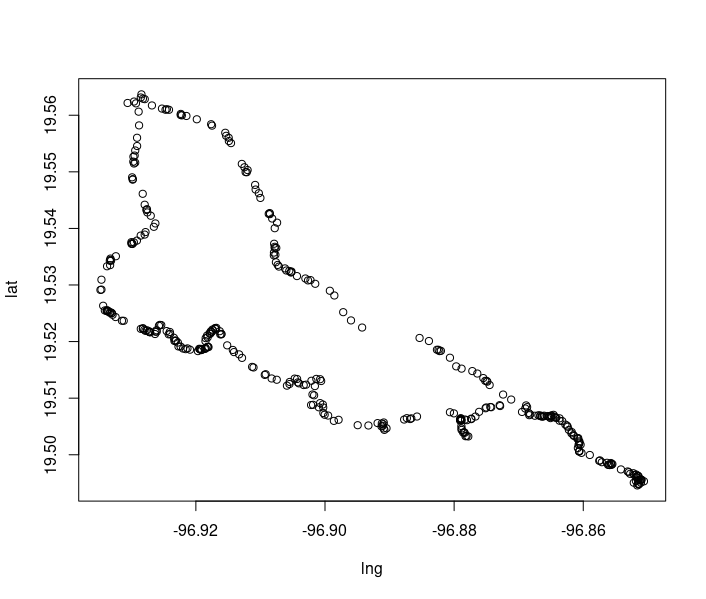
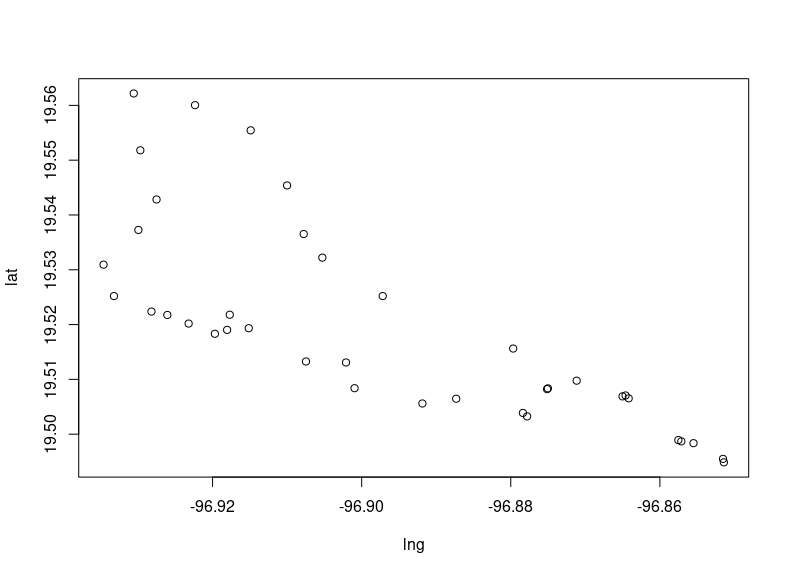
update

diff --git a/README.md b/README.md
@@ -23,6 +23,7 @@ options(osrm.server = url,osrm.profile = "driving")
 
 ``` r
 data<-geospatial::route
+data<- data[seq(1, length(data$lng), 10),]
 plot(data)
 ```
 ![GitHub Logo](images/data.png)
@@ -30,7 +31,7 @@ plot(data)
 
 ``` r
 recons<-geospatial::reconsted_route(data = data)
-plot(recons)
+plot(data$geometry)
 ```
 
 ![GitHub Logo](images/recons.png)
